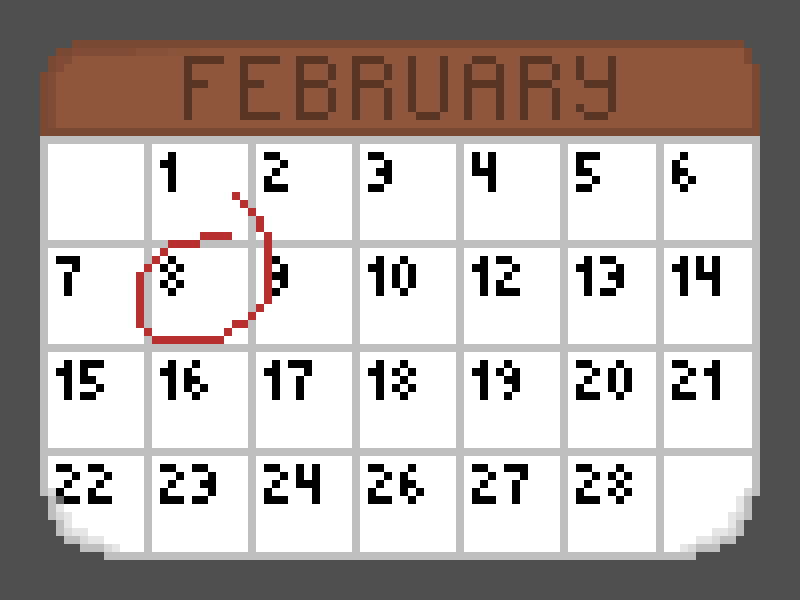
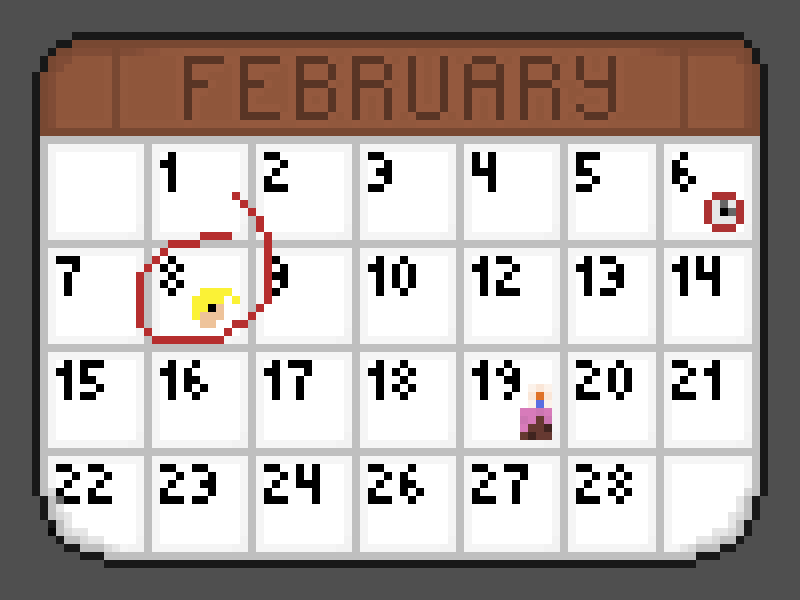
Add restart mechanic and improve sprites

diff --git a/js/game.js b/js/game.js
@@ -81,6 +81,13 @@ function onKeyDown(key) {
 	if (calendar.visible) {
 		calendar.visible = false;
 		startText.visible = false;
+		return;
+	}
+
+	// If a game has just ended and the user tries to move again
+	if (gameOver.visible) {
+		restartGame();
+		return;
 	}
 
 	// Variable to check if the player actually pressed a valid key to move
@@ -126,12 +133,22 @@ function onKeyDown(key) {
     // Order of operations is ipmortant here, newly spawned enemies don't move in the same tick
     // Score is always incremented regardless of whether you die in this frame or not, you still clicked the button
     if (moved) {
+    	++score;
     	updateScore();
     	moveEnemies();
 
     	if (hitEnemy()) {
+    		// Bring up game over screen and disable event listeners
     		gameOver.visible = true;
     		document.removeEventListener('keydown', onKeyDown);
+    		gameport.removeEventListener("click", onKeyDown);
+
+    		// After a second, allow the user to click again to keep playing
+    		setTimeout(function() {
+    			startText.visible = true;
+    			document.addEventListener("keydown", onKeyDown);
+				gameport.addEventListener("click", onKeyDown);
+			}, 1000);
     	}
     	else {
     		if ((score) % 10 === 0 || score === 1) spawnEnemy();	// Spawn an enemy every 10 moves and the starting move
@@ -181,6 +198,28 @@ function moveEnemies() {
 	}
 }
 
+// Function used to 
+function restartGame() {
+
+	// Remove all existing enemies
+	while(enemies.children[0]) {
+		enemies.removeChild(enemies.children[0]);
+	}
+
+	// Reset score
+	score = 0;
+	updateScore();
+
+	// Respawn player
+	playerSpawn = getSpawnCoords();
+	player.position.x = playerSpawn[0];
+	player.position.y = playerSpawn[1];
+
+	// Clear game over dialog from the stage
+	gameOver.visible = false;
+	startText.visible = false;
+}
+
 // Function used to check if the player has collided with any enemy
 function hitEnemy() {
 	baddies = enemies.children;
@@ -214,10 +253,10 @@ function spawnEnemy() {
 
 // Function used to simply update the current score, or turns the player has been alive
 function updateScore() {
-	scoreText.text = "Score: " + ++score;
+	scoreText.text = "Score: " + score;
 }
 
-// Function to run the game
+// Function to run the game and handle animation frames
 function animate(timestamp) {
 	requestAnimationFrame(animate);
 	renderer.render(stage);
